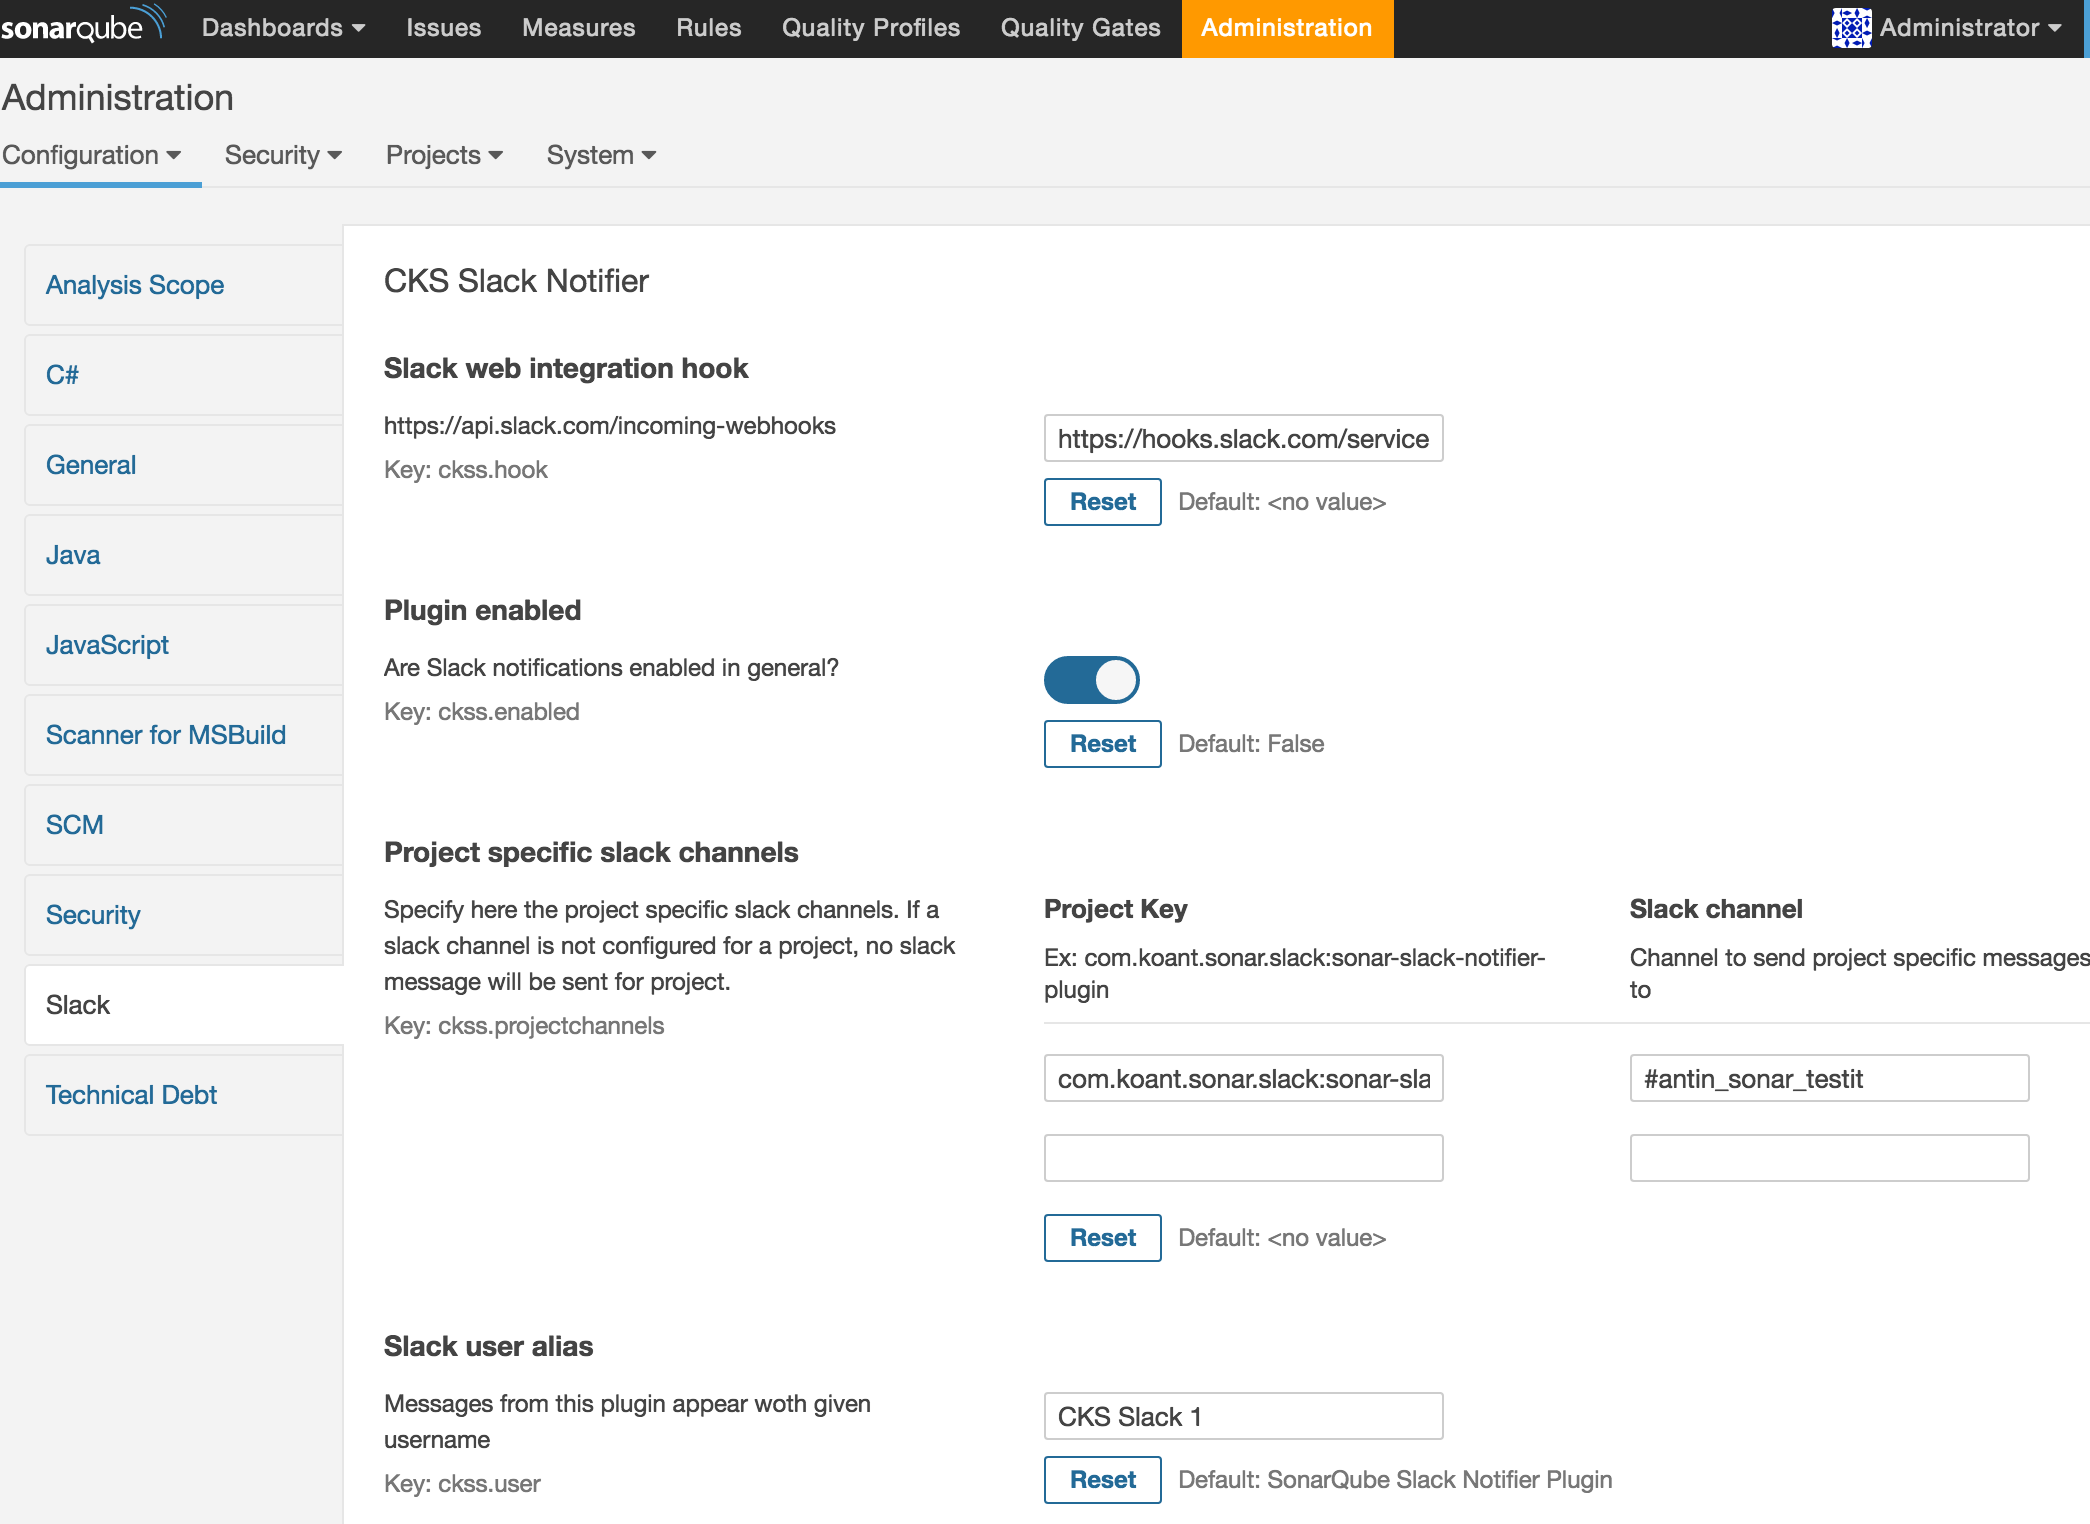
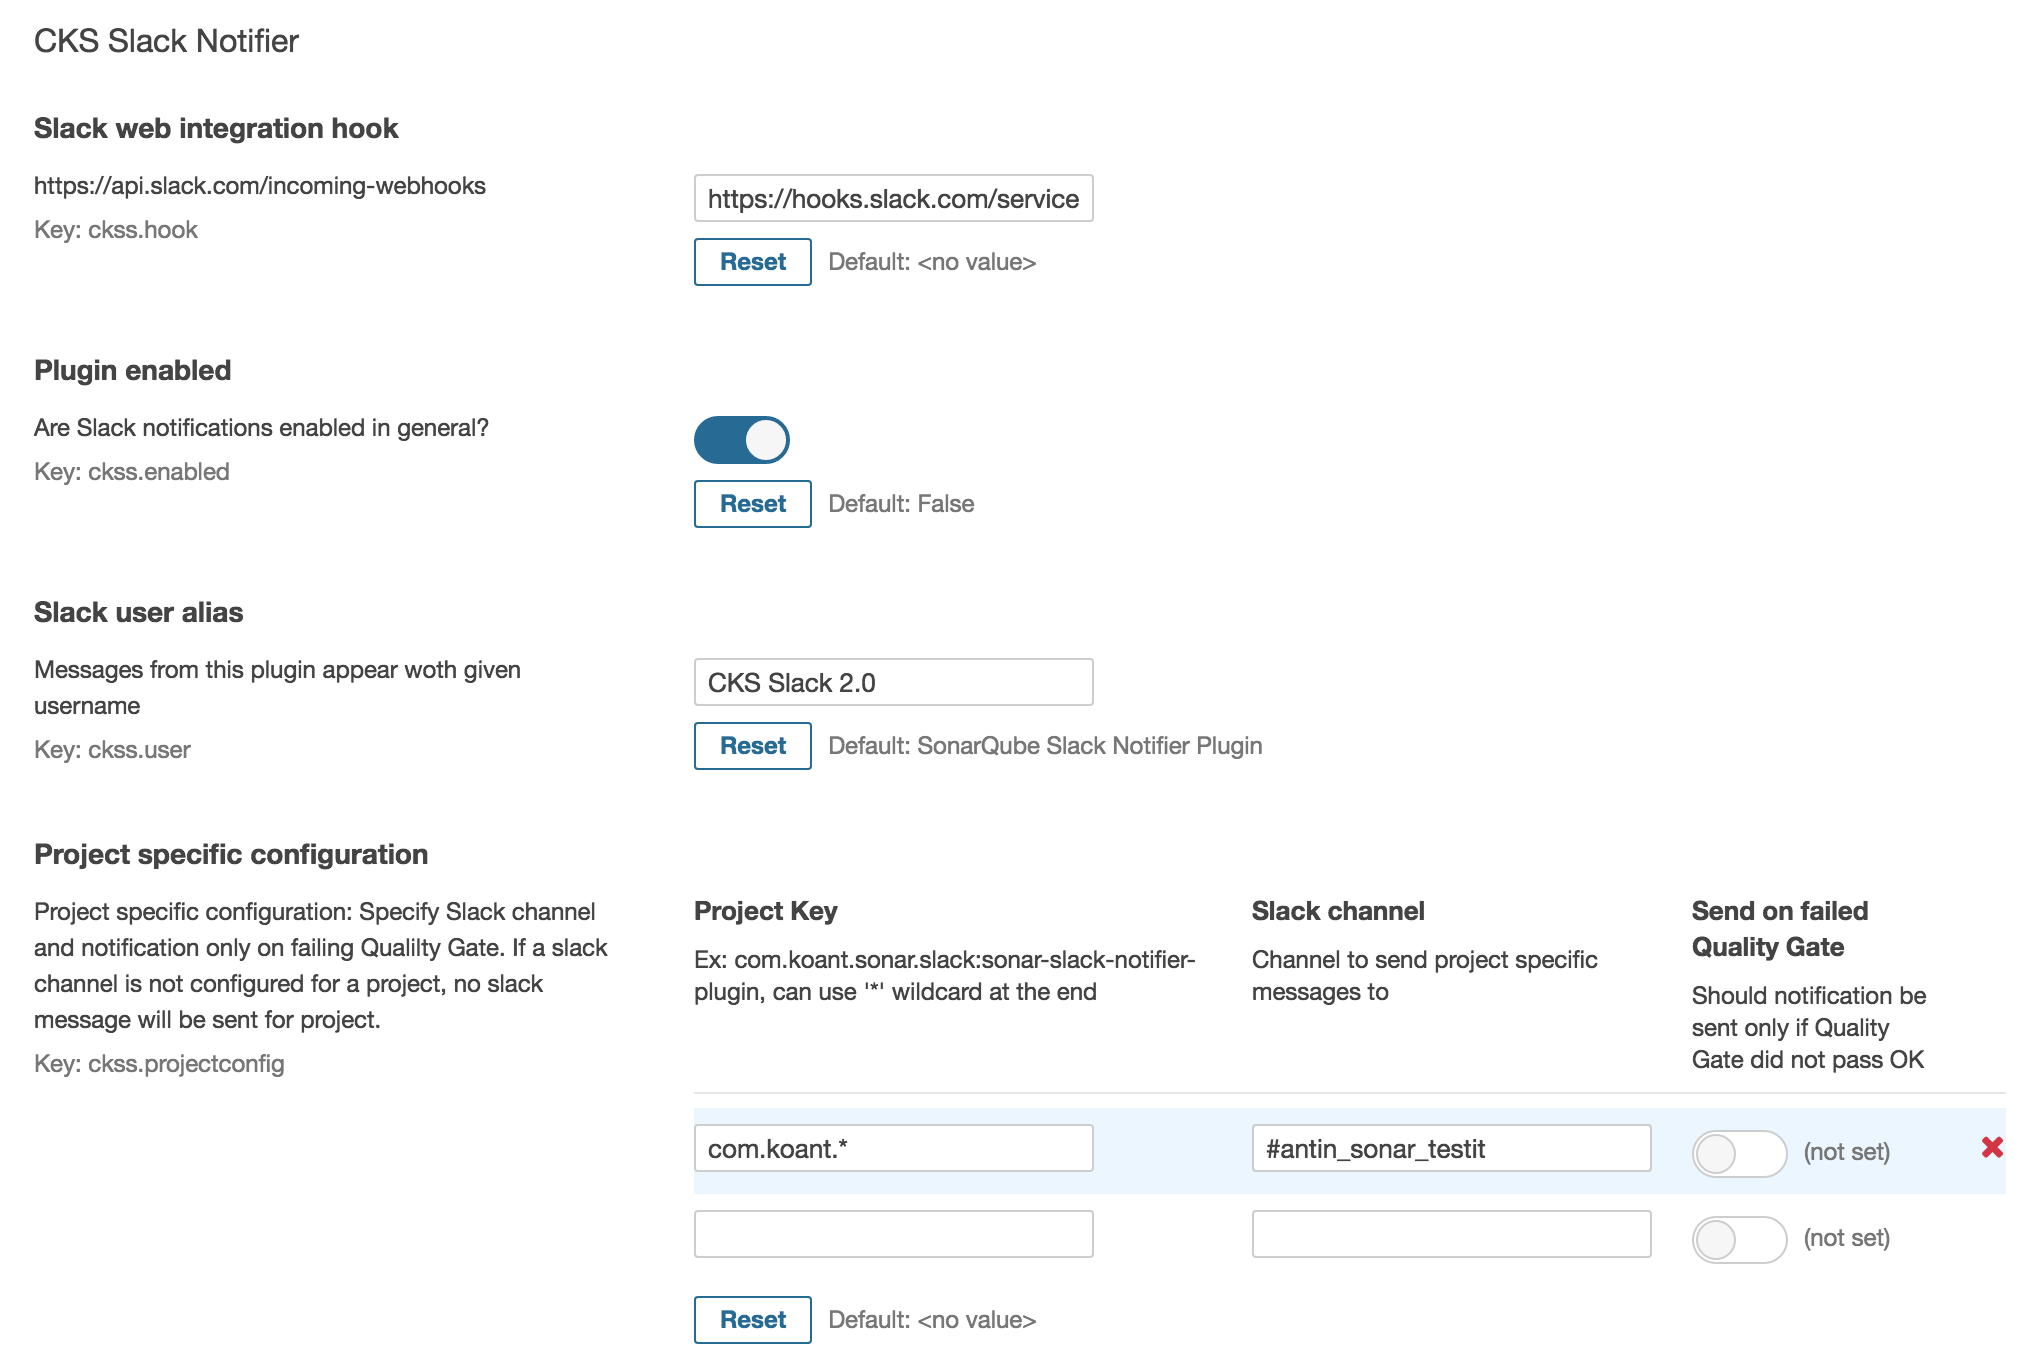
Updated README to have new screenshots and mentions about new features

diff --git a/README.md b/README.md
@@ -35,14 +35,18 @@ In the above example there is a Project Key to Slack Channel configuration for a
 The project key of any SonarQube project can be found in the project page (bottom right corner):
 ![](documentation/screenshots/project_key_from_project_page.png?raw=true)
 
-Once everything is configured, run an analysis of your project:
-```
-    $ mvn clean install
-    $ mvn org.sonarsource.scanner.maven:sonar-maven-plugin:3.1.1:sonar -Dsonar.host.url=http://localhost:9000
-```
+## Wildcard support
+The project key supports wildcards at the end. See https://github.com/kogitant/sonar-slack-notifier-plugin/issues/2
 
-The result should be something that looks like this in Slack:
-![](documentation/screenshots/example_slack_message.png)
+## Only send notification when Quality Gate fails
+Notifications can be sent for all Quality Gate statuses, or just for WARNING/ERROR statuses. See https://github.com/kogitant/sonar-slack-notifier-plugin/issues/1 
+ 
+# Example messages posted to Slack
+## New bug introduced
+![](documentation/screenshots/example_slack_message_red_due_to_new_bug.png)
+
+## All good
+![](documentation/screenshots/example_slack_message_all_green.png)
 
 # Works with
 * Tested with SonarQube 6.1 against Slack on 2016.10.17
